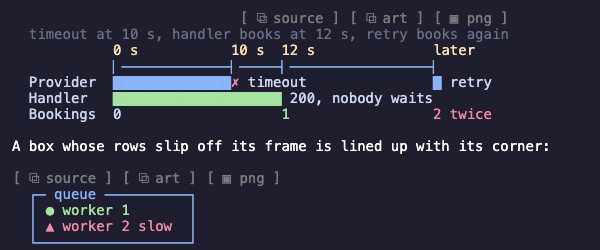
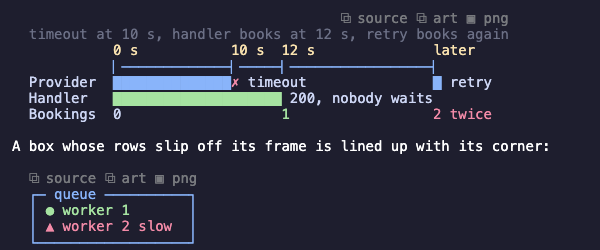
Draw dim copy buttons as plain buttons with bare labels
A plain Button with dimColor needs no Button children, so it draws on
every supported Claude Code and needs no version gate; older engines
draw the labels in plain white instead of dim.

Changed region(s): [[0.39, 0.028, 0.87, 0.112], [0.15, 0.672, 0.48, 0.756], [0.0, 0.7, 0.03, 0.728]]

diff --git a/plugin/hooks/help.ts b/plugin/hooks/help.ts
@@ -399,7 +399,7 @@ export const setupSteps = (themes: readonly string[]): SetupStep[] => [
   { name: 'tasks', key: 'taskStyle', title: 'Tasks', note: 'How `- [ ]` and `- [x]` items draw.', options: ['checks', 'ticks', 'box', 'progress'], sample: '- [x] Parse the reply\n- [x] Draw it\n- [ ] Ship it' },
   { name: 'lists', key: 'listMarker', title: 'List bullets', note: 'How bullet list items draw. `dash` draws `-` at every level, so a list you select with the mouse pastes as a markdown list into Slack, GitHub or a doc.', options: ['dots', 'dash'], sample: '- Parse the reply\n  - Find the lists\n- Draw it' },
   { name: 'headings', key: 'headingStyle', title: 'Headings', note: 'How `#` and `##` headings draw. Terminals have one font size, so headings stand out through style and color.', options: ['banner', 'bold', 'underline', 'uppercase'], sample: '# Release notes\n\n## Fixes\n\nTables keep their width.' },
-  { name: 'copy', key: 'copyButtonStyle', title: 'Copy buttons', note: 'Where the copy buttons on tables, code, diagrams and replies sit. `dim` shows them beside or above each block, dim until the pointer or the focus is on one. `inline` draws the same buttons in the accent color. `hover` puts a dim ⧉ beside each block instead and shows its buttons only while the pointer is on that ⧉, so they take no line; ctrl+x tab does not reach a hidden one, and the mobile app draws them inline. Needs `copyButtons` on.', options: ['dim', 'inline', 'hover'], sample: '' },
+  { name: 'copy', key: 'copyButtonStyle', title: 'Copy buttons', note: 'Where the copy buttons on tables, code, diagrams and replies sit. `dim` shows them as bare labels beside or above each block, dim until the pointer or the focus is on one. `inline` draws the same buttons in the accent color. `hover` puts a dim ⧉ beside each block instead and shows its buttons only while the pointer is on that ⧉, so they take no line; ctrl+x tab does not reach a hidden one, and the mobile app draws them inline. Needs `copyButtons` on.', options: ['dim', 'inline', 'hover'], sample: '' },
   { name: 'prompts', key: 'promptStyle', title: 'Your prompts', note: 'How what you type draws in the transcript. `bubble` puts it on the right like a chat app, under `You ⬤`, and Claude\'s replies in a bubble of their own. The other styles keep Claude\'s replies as they were. `off` keeps Claude Code\'s own look.', options: ['bubble', 'wide', 'bar', 'chevron', 'off'], sample: '' },
   { name: 'replies', key: 'replyStyle', title: 'Claude\'s replies', note: 'How Claude\'s replies draw in the transcript. `auto` draws them as `bubble` while your prompts are a `bubble`, so the transcript reads as a chat, and as `off` with any other prompt style. `bubble` puts each one under `⬤ Claude` in a rounded frame of Claude\'s orange on a fill a step off the background, `solid` fills it to the edge with no frame, `framed` keeps the frame with no fill. A reply that calls tools between its sentences draws one bubble per block of text. `off` keeps a dot before the first line.', options: ['auto', 'bubble', 'solid', 'framed', 'off'], sample: '' },
   { name: 'labels', key: 'bubbleLabels', title: 'Bubble labels', note: 'The `You ⬤` label above your prompts and the `⬤ Claude` label above Claude\'s replies. `large` draws the ⬤ as Claude Code does, `small` draws the dot ●, `off` drops both labels and keeps the frames. `You` needs `promptStyle: bubble`, `Claude` a `replyStyle` other than `off`.', options: ['large', 'small', 'off'], sample: '' },

diff --git a/plugin/hooks/register.tsx b/plugin/hooks/register.tsx
@@ -422,10 +422,10 @@ const drawMarkdown = ($: EngineInterface, el: ReturnType<EngineInterface['ui']['
     return style.copyButtons && offers(style, rich) ? (
       <Button
         key={key}
-        {...(style.copyButtonStyle !== 'dim' ? { variant: 'primary' as const } : style.buttonChildren ? { plain: true as const, dimColor: true } : { variant: 'secondary' as const, dimColor: true })}
+        {...(style.copyButtonStyle === 'dim' ? { plain: true as const, dimColor: true } : { variant: 'primary' as const })}
         label={label}
         onPress={async press => $.ui.toast(await copied(press.surface).catch(() => 'Copy failed'))}
-      >{style.copyButtonStyle === 'dim' && style.buttonChildren ? <el.Text>{`[ ${label} ]`}</el.Text> : undefined}</Button>
+      />
     ) : null
   }
   const drawn = drawDiagrams(el, style, blocks, columns - markerRoom(style))
@@ -608,7 +608,7 @@ const SETUP_TABLE = '| Item | Qty |\n|:-----|----:|\n| Apples | 3 |\n| Pears | 5
 const SETUP_SENT = new Date(2026, 0, 15, 14, 32).getTime()
 
 const copySample = (el: ReturnType<EngineInterface['ui']['resolve']>, style: Style, value: string, id: string, columns: number): RenderElement[] => {
-  const label: CopyButton = (_text, key, name = '⧉ copy', rich) => (offers(style, rich) ? <el.Text key={key} {...(style.copyButtonStyle === 'dim' ? { dimColor: true } : { bold: true })}>{`[ ${name} ]`}</el.Text> : null)
+  const label: CopyButton = (_text, key, name = '⧉ copy', rich) => (offers(style, rich) ? (style.copyButtonStyle === 'dim' ? <el.Text key={key} dimColor>{name}</el.Text> : <el.Text key={key} bold>{`[ ${name} ]`}</el.Text>) : null)
   const table = renderBlocks(el, style, parse(SETUP_TABLE, { numbers: style.highlightNumbers, paths: style.highlightPaths }), columns, new Map(), label)
   return [
     <el.Box key={`${id}t`} flexDirection="column">{table}</el.Box>,
@@ -714,8 +714,7 @@ export const register: Register = (on, options) => {
   const pathChecks: PathChecks = { asked: new Set(), batch: [], found: new Set() }
   const forSurface = (base: Style, { surface, viewport }: { surface: RenderSurface; viewport?: { isFullscreen?: boolean } }, links: LinkReach): Style => {
     const drawn = surface === 'terminal' ? (links.http || links.editor ? { ...base, httpLinks: links.http, editorLinks: links.editor, obsidianLinks: links.editor && viewport?.isFullscreen === false, fileLinks: links.files, pathLinks: links.paths } : base) : { ...base, htmlCopy: null, nativeCode: true, gridFace: surface === 'desktop', monoFace: surface === 'desktop' && links.monoText }
-    const shaped = { ...drawn, buttonChildren: links.marks }
-    return surface === 'mobile' && shaped.copyButtonStyle === 'hover' ? { ...shaped, copyButtonStyle: 'inline' } : shaped
+    return surface === 'mobile' && drawn.copyButtonStyle === 'hover' ? { ...drawn, copyButtonStyle: 'inline' } : drawn
   }
   const fullWidth = (text: string) => (style.reorder && hasRtl(text) ? { width: '100%' as const } : {})
 

diff --git a/tests/render.test.tsx b/tests/render.test.tsx
@@ -6,7 +6,6 @@ import { MARK } from '../hooks/render'
 import { width } from '../hooks/layout'
 import { resolveStyle } from '../hooks/theme'
 import { clipboardEnv, startSession } from './clipboard-env'
-import { claudeAt } from './claude-version'
 
 const TABLE = [
   '| Service | Regions | Version |',
@@ -260,7 +259,6 @@ test('back-to-back tables and diagrams share a wrapping row', async $ => {
 })
 
 test('code blocks, tables and quotes get a copy button, tables an art button, the reply a copy reply button', async ($, on) => {
-  claudeAt(on, '2.1.295')
   const copied: string[] = []
   on('ui.copy', (_, e) => {
     copied.push(e.text)
@@ -760,21 +758,12 @@ test('a tinted translation is drawn in its color', async $ => {
 
 const CODE = '```ts\nconst a = 1\n```'
 
-for (const surface of SURFACES) test(`copyButtonStyle dim, the default, draws a copy button dim on ${surface}`, async ($, on) => {
-  claudeAt(on, '2.1.295')
+for (const surface of SURFACES) test(`copyButtonStyle dim, the default, draws a copy button dim on ${surface}`, async $ => {
   const ui = await $.ui.mount({ ...draw(CODE), surface })
   const button = await ui.find({ key: 'copy0' })
   expect(button?.props.plain).toBe(true)
   expect(button?.props.dimColor).toBe(true)
-  expect(button?.text).toBe('[ ⧉ copy ]')
-  await ui.unmount()
-})
-
-test('copyButtonStyle dim falls back to a dim secondary button before Claude Code 2.1.295, which draws no Button children', async ($, on) => {
-  claudeAt(on, '2.1.294')
-  const ui = await $.ui.mount({ ...draw(CODE), surface: 'terminal' })
-  const button = await ui.find({ key: 'copy0' })
-  expect([button?.props.plain, button?.props.variant, button?.props.dimColor]).toEqual([undefined, 'secondary', true])
+  expect(button?.props.label).toBe('⧉ copy')
   await ui.unmount()
 })
 

diff --git a/tests/regressions.test.tsx b/tests/regressions.test.tsx
@@ -2071,12 +2071,11 @@ test('footnotes follow quotes and fences: a quoted fence marker inside code make
   expect(marks('> a[^q]\n>\n> > [^q]: Nested note\n> >   continued')).toEqual(['¹ Nested note continued'])
 })
 
-for (const copyButtonStyle of ['dim', 'inline', 'hover'] as const) test(`a quote that opens with code puts its own ${copyButtonStyle} copy button on its last row`, { options: { copyButtonStyle } }, async ($, on) => {
-  claudeAt(on, '2.1.295')
+for (const copyButtonStyle of ['dim', 'inline', 'hover'] as const) test(`a quote that opens with code puts its own ${copyButtonStyle} copy button on its last row`, { options: { copyButtonStyle } }, async $ => {
   const ui = await $.ui.mount(mount('> ```bash\n> npm test\n> ```\n>\n> Run that first.\n\n> One line.'))
   const boxes = await ui.findAll({ type: 'Box' })
   const low = boxes.filter(b => (copyButtonStyle === 'hover' ? b.props.display === 'none' && b.props.bottom === 0 && b.props.right === 0 && b.text !== '⧉ copy reply' : b.props.alignSelf === 'flex-end' && b.key !== 'reply'))
-  expect(low.map(b => b.text)).toEqual([copyButtonStyle === 'dim' ? '[ ⧉ copy ]' : '⧉ copy'])
+  expect(low.map(b => b.text)).toEqual(['⧉ copy'])
   expect(boxes.filter(b => b.props.position === 'absolute' && b.props.top === 0 && b.props.display === 'none' && b.text !== '⧉ copy reply').map(b => b.text)).toEqual(copyButtonStyle === 'hover' ? ['⧉ copy', '⧉ copy'] : [])
   await ui.unmount()
 })

diff --git a/tests/features.test.tsx b/tests/features.test.tsx
@@ -3009,7 +3009,8 @@ test('/prismantis setup draws each sample in its own style', async $ => {
   expect((await headings.findAll({ type: 'Text', text: /^Fixes$/ })).filter(t => t.props.underline)).toHaveLength(1)
   await headings.unmount()
   const copy = await mount(5)
-  expect((await copy.findAll({ type: 'Text', text: /^\[ ⧉ md \]$/ })).map(t => t.props.dimColor === true)).toEqual([true, false, false])
+  expect(await copy.findAll({ type: 'Text', text: /^\[ ⧉ md \]$/ })).toHaveLength(2)
+  expect((await copy.findAll({ type: 'Text', text: /^⧉ md$/ })).map(t => t.props.dimColor)).toEqual([true])
   expect((await copy.findAll({ type: 'Box' })).filter(b => b.props.display === 'none').map(b => b.text)).toEqual(['[ ⧉ md ] [ ⧉ art ]'])
   expect((await copy.findAll({ type: 'Text', text: /^⧉$/ })).map(t => t.props.dimColor)).toEqual([true])
   expect(await copy.findAll({ type: 'Text', text: /^Its buttons show only while the pointer is on its ⧉\.$/ })).toHaveLength(1)

diff --git a/plugin/hooks/theme.ts b/plugin/hooks/theme.ts
@@ -49,7 +49,6 @@ export type Style = {
   htmlCopy: ClipboardBackend | null
   images: boolean
   nativeCode?: boolean
-  buttonChildren?: boolean
   gridFace?: boolean
   monoFace?: boolean
   smallDot?: boolean

diff --git a/README.md b/README.md
@@ -213,9 +213,9 @@ When tables, diagrams and figures follow each other, they share a row and wrap o
 - **Whole replies:** replies with more than one block, or any Hebrew or Arabic, end with `⧉ copy reply`, which copies the reply as Claude wrote it. Selecting right-to-left text on screen copies letters in drawn order, not reading order.
 - **No mouse:** `/prismantis copy` copies the last reply, `/prismantis copy code` its last code block.
 
-`copyButtonStyle` picks how the buttons look and where they sit. `dim`, the default, draws them beside or above each block, dim until the pointer or the focus is on one, which lights it up. Before Claude Code 2.1.295 they draw in plain white instead, since only later versions dim a button. `inline` draws the same buttons in the theme's accent color. `hover` puts a dim ⧉ beside each block's first row instead, at its left on a right-to-left block, and one in the reply's bottom-right corner for the whole reply. Pointing at a ⧉ draws its buttons over it, so they take no line and nothing moves when they show; the pointer on the block itself shows nothing. ctrl+x tab does not reach a hidden button, and the mobile app, which has no pointer, draws them inline.
+`copyButtonStyle` picks how the buttons look and where they sit. `dim`, the default, draws them beside or above each block as bare `⧉ md ⧉ art` labels, dim until the pointer or the focus is on one, which lights it up. Older Claude Code versions draw them in plain white. `inline` draws the same buttons in the theme's accent color. `hover` puts a dim ⧉ beside each block's first row instead, at its left on a right-to-left block, and one in the reply's bottom-right corner for the whole reply. Pointing at a ⧉ draws its buttons over it, so they take no line and nothing moves when they show; the pointer on the block itself shows nothing. ctrl+x tab does not reach a hidden button, and the mobile app, which has no pointer, draws them inline.
 
-![copyButtonStyle dim: a figure and a box, each with its ⧉ source, ⧉ art and ▣ png buttons drawn dim above it](docs/copy/dim.png)
+![copyButtonStyle dim: a figure and a box, each with bare ⧉ source, ⧉ art and ▣ png buttons drawn dim above it](docs/copy/dim.png)
 
 ![copyButtonStyle hover: at rest a table, a bash block and the reply each show a dim ⧉; with the pointer on the table's ⧉, its ⧉ md, ⧉ art and ⧉ html buttons draw over the marker and the end of the header row](docs/copy/hover.png)
 
